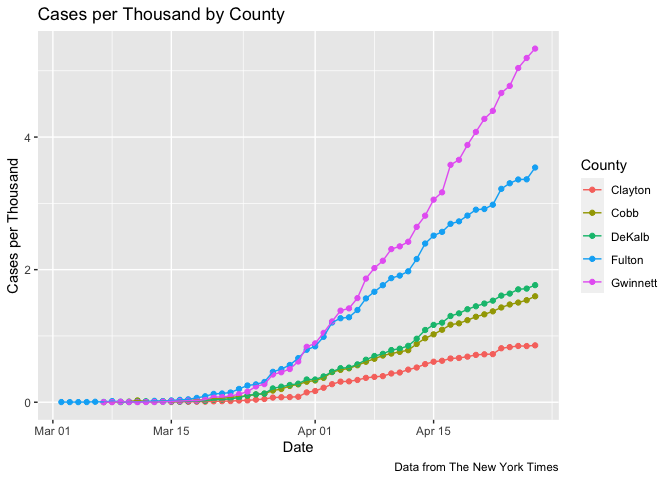
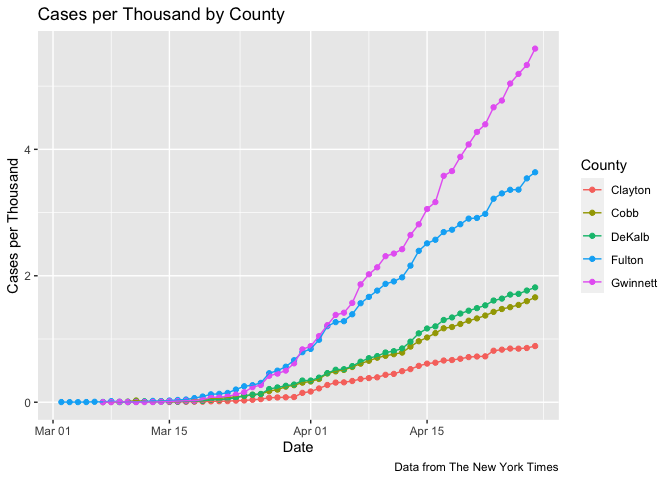
Ran with new data

diff --git a/Metro_Atlanta_COVID.md b/Metro_Atlanta_COVID.md
@@ -16,7 +16,7 @@ It’s hard to know how to interpret these numbers since there are major
 known unknowns. Neither confirmed cases nor deaths can be said to be
 reliable counts of the true numbers.
 
-Data current as of April 28,
+Data current as of April 29,
 2020.
 
 # Metro Atlanta
